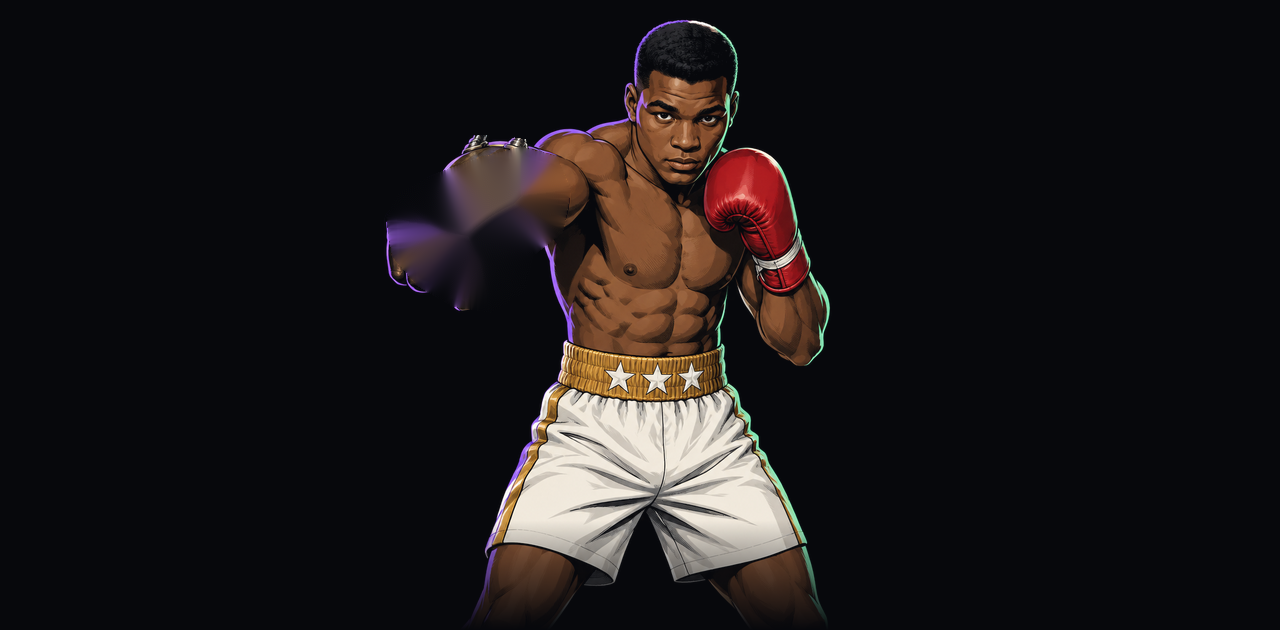
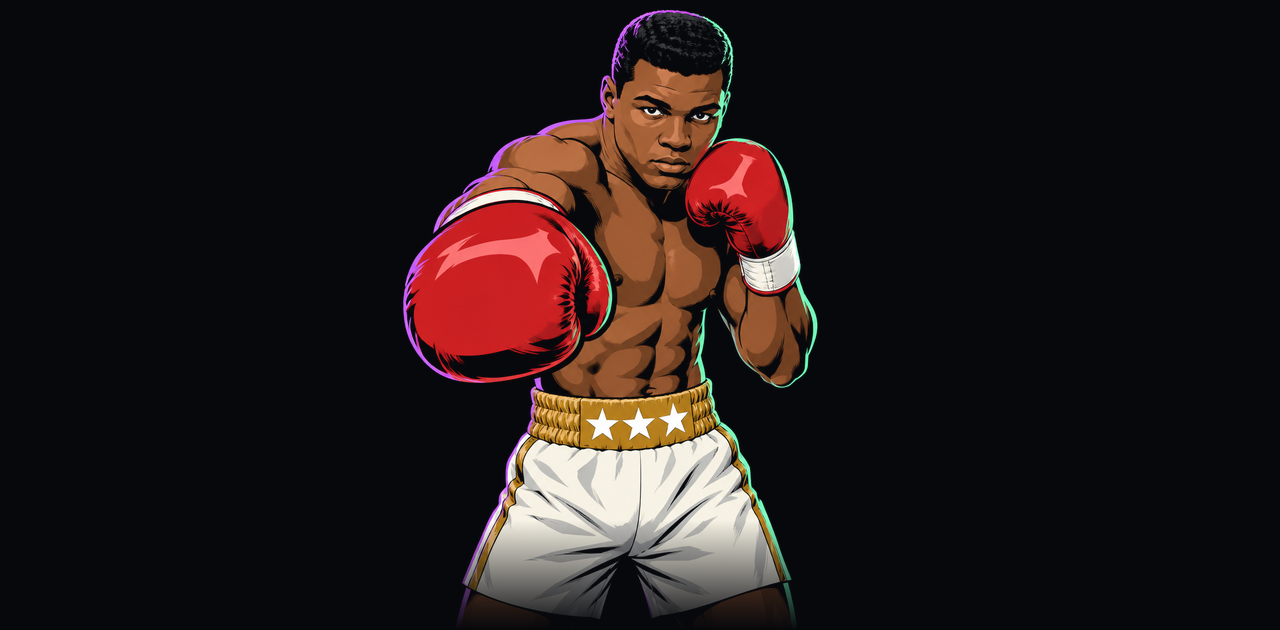
feat(punch): switch faceplate to the both-gloves-on tribute boxer
Lead glove thrust toward the viewer in the Joe Louis Fist monument pose.
MPC activity animation retargeted: the glove grows up to 3.5 percent over an
unchanged background, replacing the inpainted double-image workaround.
Alternates kept in design/art.

Changed region(s): [[0.2812, 0.0, 0.6562, 0.9952]]

diff --git a/plugins/punch/mpc/make_art.py b/plugins/punch/mpc/make_art.py
@@ -7,8 +7,8 @@ Mapping, after the OP-1 mllp screen (display/mllp.svg):
   punch.png  PUNCH   burst of rays growing from a point (OP-1: purple rays by the glove, mapping designed)
   rounds.png ROUNDS  ladder of bars filling up (OP-1: ten green bars, recovered; here 24 cells for 24 rounds)
   power.png  POWER   shock arcs travelling out from the glove (designed, the OP-1 shows red glove art)
-  act.png    signal  forward fist extends on transients and returns to guard (designed)
-  bg.png     MPC faceplate with the forward fist removed, so it can move cleanly
+  act.png    signal  forward glove grows toward the viewer on transients and returns to guard (designed)
+  bg.png     MPC faceplate, unchanged; the glove layer is drawn over it and covers its resting self
 """
 import math
 import os
@@ -181,29 +181,29 @@ def power_frames(n=33):
 def glove_layers():
     source = Image.open(os.path.join(HERE, "../design/art/faceplate-bg-1280x630.png")).convert("RGB")
     # Trace the forward fist and cuff. The shoulder stays on the faceplate.
-    outline = [(386, 218), (398, 192), (438, 172), (478, 158), (520, 146), (556, 156),
-               (570, 190), (562, 232), (532, 256), (524, 292), (490, 312), (452, 306),
-               (418, 286), (392, 256)]
+    outline = [(440, 227), (490, 190), (530, 190), (560, 210), (580, 230), (607, 263),
+               (613, 297), (597, 330), (573, 347), (547, 363), (480, 380), (433, 363),
+               (410, 317), (405, 290), (417, 263), (430, 243)]
     mask = Image.new("L", source.size, 0)
     ImageDraw.Draw(mask).polygon(outline, fill=255)
     glove = source.convert("RGBA")
-    glove.putalpha(mask)
-    clean = cv2.inpaint(np.asarray(source), np.asarray(mask), 11, cv2.INPAINT_TELEA)
-    bg = Image.fromarray(clean)
-    bg.save(os.path.join(OUT, "bg.png"), optimize=True)
-    return glove.crop((358, 120, 598, 310))
+    glove.putalpha(mask.filter(ImageFilter.GaussianBlur(1.2)))
+    # The glove grows toward the viewer, so it always covers its resting self: the background keeps the original art.
+    source.save(os.path.join(OUT, "bg.png"), optimize=True)
+    return glove.crop((390, 189, 630, 381))
 
 
 def act_frames():
-    w, h = 240, 190
+    w, h = 240, 192
     glove = glove_layers()
     out = []
     for k in range(8):
         for l in range(8):
             # The lead knob occupies the high three frame bits; only the onset level moves the arm.
-            shift = round(12 * (l / 7.0) ** 0.75)
+            grow = 1.0 + 0.035 * (l / 7.0) ** 0.75
+            big = glove.resize((round(w * grow), round(h * grow)), Image.LANCZOS)
             frame = Image.new("RGBA", (w, h), (0, 0, 0, 0))
-            frame.alpha_composite(glove, (12 - shift, shift // 5))
+            frame.alpha_composite(big, ((w - big.width) // 2, (h - big.height) // 2))
             out.append(frame)
     return out
 

diff --git a/plugins/punch/design/BRIEF.md b/plugins/punch/design/BRIEF.md
@@ -5,9 +5,9 @@ Canvas 1280 x 630 (the MPC plugin view size; the desktop window scales it at the
 - Plate color `#07080c`, ink `#e9ece8`, muted `#6c7370`, track `#23262a`.
 - Accents: violet `#a77bff` (FREQ), red `#ff4d5e` (PUNCH, POWER), mint `#2ef0a0` (ROUNDS).
 - Type: Barlow Condensed for labels and readouts, JetBrains Mono for the small captions.
-- Center: a boxer, generated with Higgsfield (`design/art/champ-2.png`), cropped to 620 x 630 at x 330, bottom fading to the plate.
+- Center: a boxer, a Detroit tribute generated with Higgsfield (`design/art/on-1.png`), the lead arm thrust out toward the viewer in the pose of the Joe Louis Fist monument, cropped to 620 x 630 at x 330, bottom fading to the plate.
   Alternates kept in `design/art/`: `champ-1`, `champ-3`, and `classic-1`, `classic-2` (an early-1900s champion look).
-  The boxer is an original character. It is not a likeness of a real person.
+  The boxer is a stylized illustration, a Detroit tribute. The lead arm follows the pose of the Joe Louis Fist monument. It is not a photographic likeness.
 - Left column: FREQ above PUNCH. Right column: ROUNDS above POWER. Each knob is a 240 x 250 cell:
   label (32 px), 270 degree ring (radius 74, stroke 6), readout (66 px), caption (12 px mono).
 - Wordmark PUNCH top left at (48, 30) with TRANSIENT STACK under it.
@@ -18,12 +18,12 @@ vertically, 220 px for the full range.
 ## MPC animation
 
 The MPC skin moves like the OP-1 screen for this engine (`display/mllp.svg`, the boxer). `mpc/make_art.py` regenerates every strip in `mpc/images/` with Pillow, all in this plugin's own look.
-The Punch generator also uses NumPy and OpenCV to make the MPC-only background behind the moving glove.
+The Punch generator also uses NumPy to cut the glove layer that moves over the faceplate.
 
 - FREQ (violet): a needle sweeping a 270 degree tick dial. Recovered from the OP-1: its blue needle on green ticks is the FREQ dial.
 - PUNCH (red): a burst of rays that grows with the knob. The OP-1 has four rays by the glove; the exact mapping is not recoverable, so I designed it.
 - ROUNDS (mint): a ladder of bars that fills up. The OP-1 has a ladder of ten green bars; I use 24 cells because the knob has 24 rounds.
 - POWER (red): shock arcs that light up and thicken going outward. Designed, the OP-1 shows the glove art here.
-- Signal (`act`): the forward glove extends up to 12 px on an output transient, then returns to guard. I use a slow level baseline to distinguish a hit from a sustained signal. The knob axis repeats the same eight poses. A separate MPC background removes the resting glove so the motion does not leave a double image.
+- Signal (`act`): the forward glove grows up to 3.5 percent on an output transient, then returns to guard. I use a slow level baseline to distinguish a hit from a sustained signal. The knob axis repeats the same eight poses. The glove only grows, so it always covers its resting self and the motion leaves no double image.
 
 Each knob strip is a display-only `meter` on the knob's own key, 33 frames, placed beside its knob. The desktop faceplate background is unchanged.
